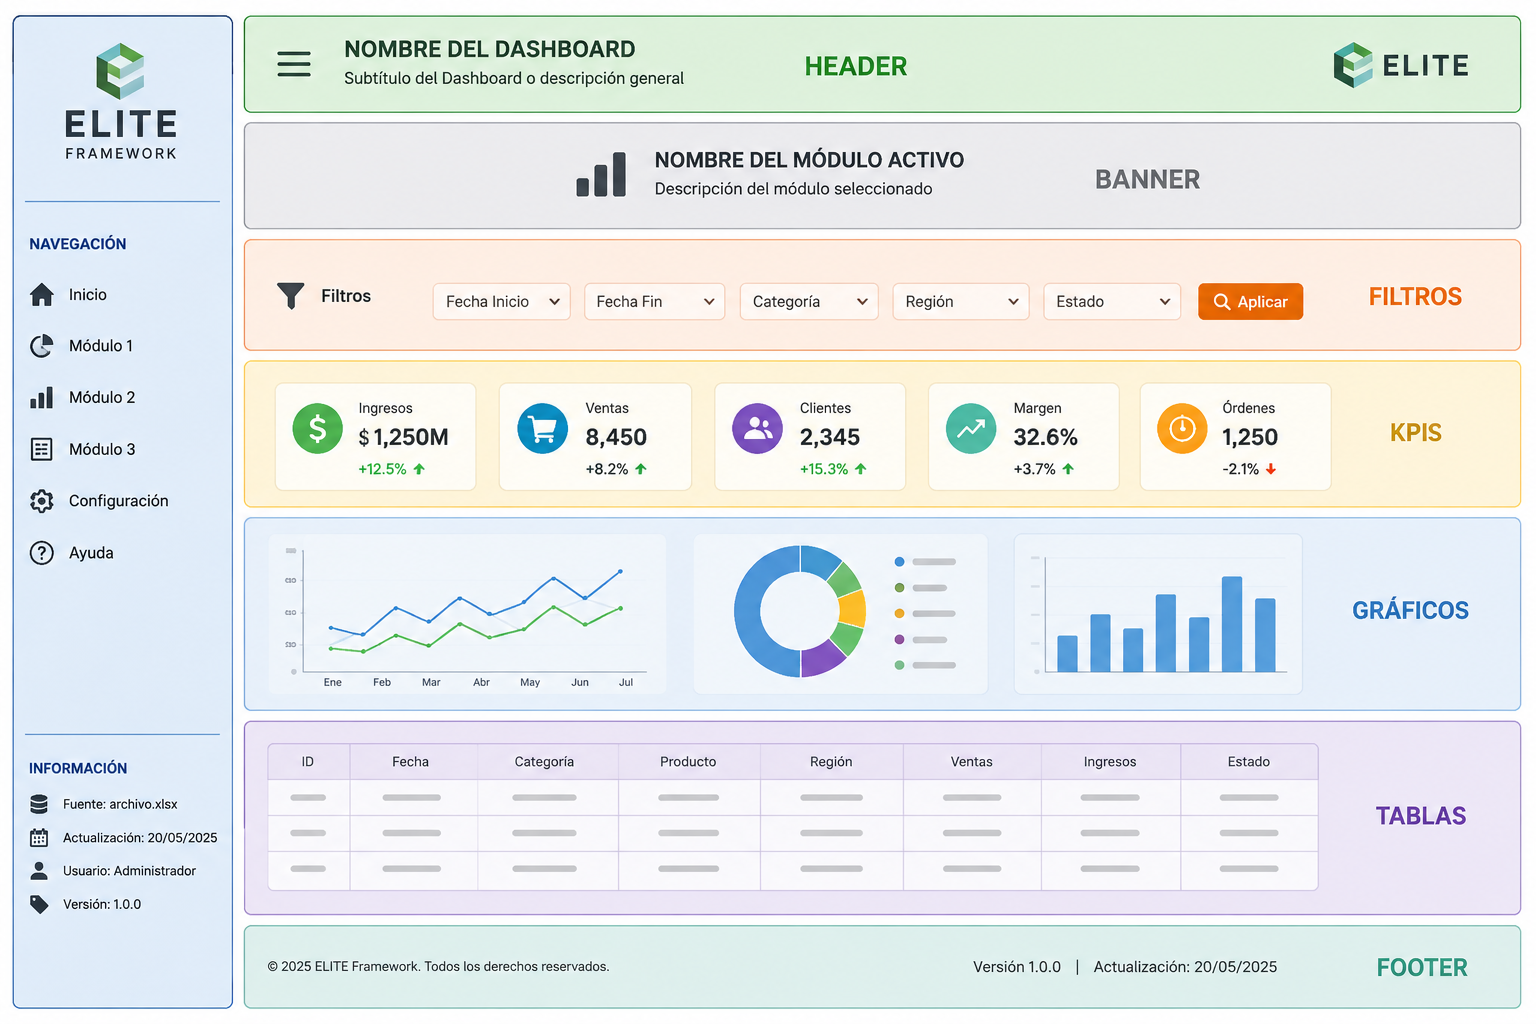
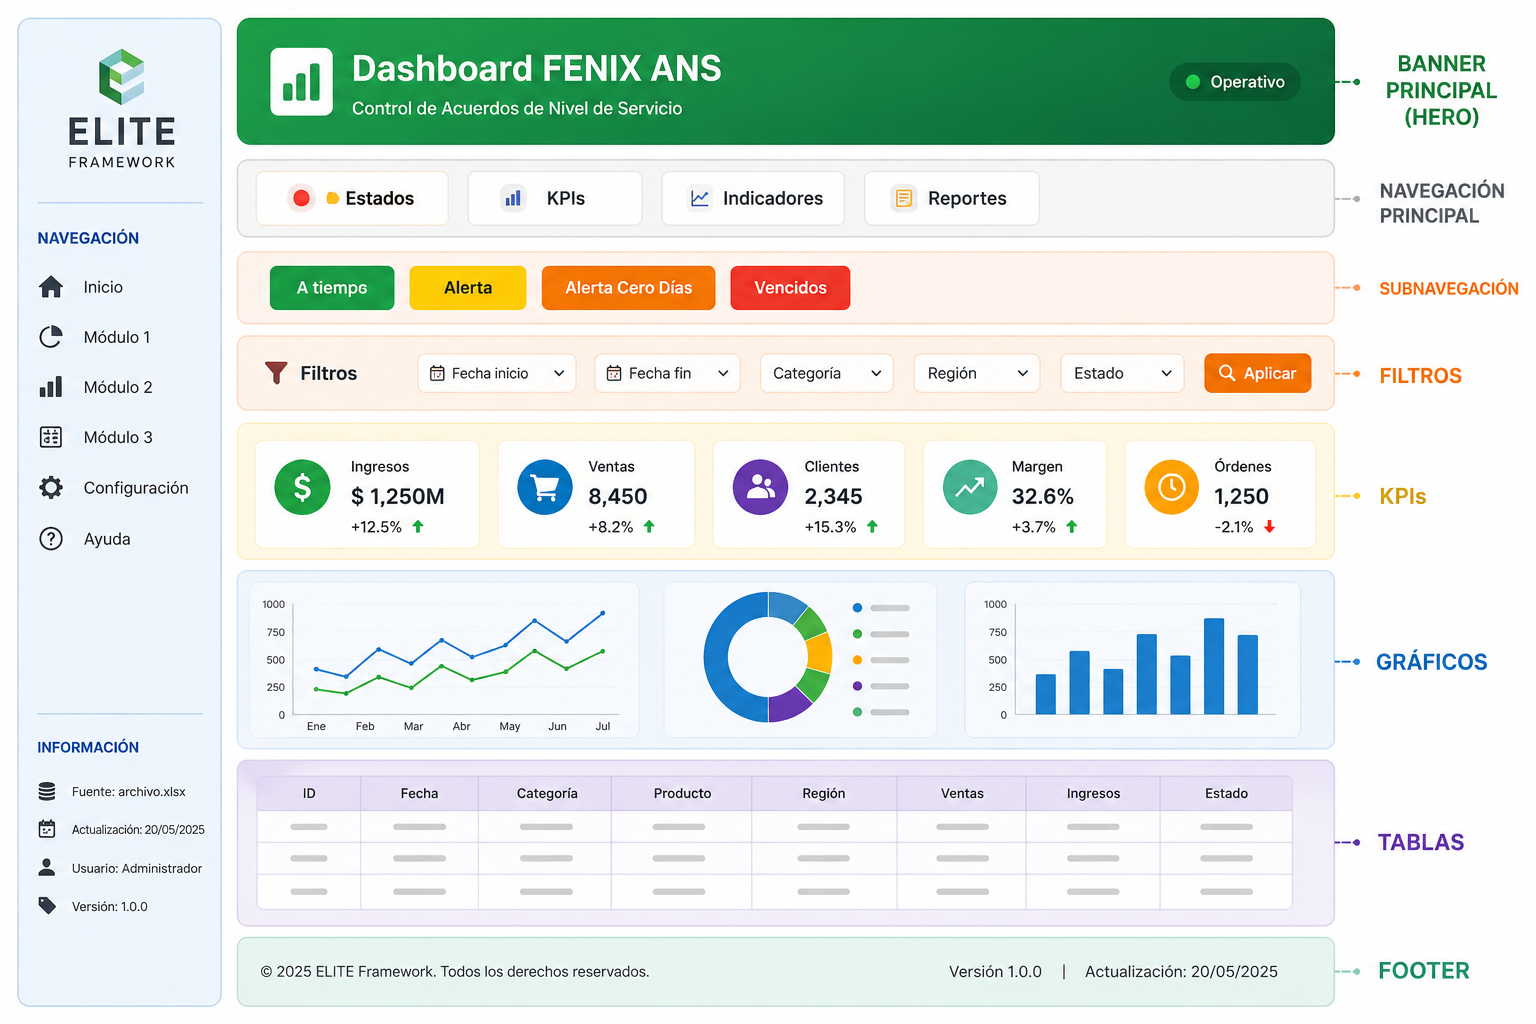
Se actualiza los md de construcción de un dashboard v6

diff --git a/docs/construccion_dashboards/14_dashboard_base.md b/docs/construccion_dashboards/14_dashboard_base.md
@@ -151,12 +151,68 @@ Footer
 
 ## Estructura Visual
 
-La siguiente imagen presenta la distribución oficial de los componentes que conforman un Dashboard desarrollado bajo el Framework ELITE.
+El Framework ELITE admite dos patrones oficiales para organizar la interfaz de un Dashboard.
 
-![Dashboard Base](../images/dashboards/08_dashboard.png)
+La elección dependerá de las necesidades del proyecto y de la experiencia de usuario que se desee ofrecer.
 
+---
 
-Esta distribución constituye el estándar oficial del Framework ELITE.
+## Patrón A — Navegación Principal en el Sidebar
+
+Este patrón corresponde al diseño tradicional utilizado por la mayoría de aplicaciones empresariales.
+
+La navegación principal se encuentra ubicada dentro del Sidebar, permitiendo acceder a los diferentes módulos del Dashboard desde el panel lateral.
+
+![Patrón A - Navegación en Sidebar](../images/dashboards/08_dashboard.png)
+
+**Figura 14.1.** Dashboard con navegación principal ubicada en el Sidebar.
+
+### Ventajas
+
+- Diseño ampliamente conocido por los usuarios.
+- Mayor espacio para organizar múltiples módulos.
+- Arquitectura sencilla de implementar.
+- Adecuado para aplicaciones donde el Sidebar permanece siempre visible.
+
+### Consideraciones
+
+> En aplicaciones desarrolladas con **Streamlit**, el Sidebar puede contraerse mediante el control integrado (**<<**). Cuando esto ocurre, la navegación principal deja de estar visible hasta que el usuario vuelva a expandir el panel lateral.
+
+---
+
+## Patrón B — Navegación Principal Integrada al Dashboard (Recomendado)
+
+Este patrón traslada la navegación principal al área central del Dashboard, inmediatamente después del Banner Principal (Hero).
+
+De esta forma, la navegación permanece visible incluso cuando el Sidebar se encuentra contraído.
+
+![Patrón B - Navegación Integrada](../images/dashboards/09_dashboard.png)
+
+**Figura 14.2.** Dashboard con navegación principal integrada al área de trabajo.
+
+### Ventajas
+
+- La navegación principal nunca desaparece.
+- Mejor experiencia de usuario en aplicaciones desarrolladas con Streamlit.
+- Mayor claridad sobre el módulo activo.
+- Compatible con el colapso automático del Sidebar.
+- Arquitectura utilizada por el Dashboard FENIX ANS.
+
+---
+
+## Recomendación Oficial del Framework ELITE
+
+> **Recomendación**
+>
+> Aunque ambos patrones son válidos, el Framework ELITE recomienda implementar la **Navegación Principal dentro del Dashboard**.
+>
+> En Streamlit, el Sidebar puede contraerse accidentalmente mediante el control integrado (**<<**). Cuando esto ocurre, toda la navegación ubicada en el panel lateral deja de estar disponible temporalmente.
+>
+> Para garantizar una experiencia de usuario consistente, el Sidebar debería reservarse para información institucional, configuración general o elementos auxiliares, mientras que la navegación funcional (módulos, pestañas, subnavegación y filtros) debe permanecer visible dentro del área principal del Dashboard.
+
+---
+
+Ambos patrones forman parte del Framework ELITE y pueden utilizarse según las necesidades del proyecto. No obstante, para nuevos desarrollos realizados en Streamlit se recomienda adoptar el **Patrón B**, ya que ofrece una experiencia de navegación más robusta y consistente.
 
 ------------------------------------------------------------------------
 